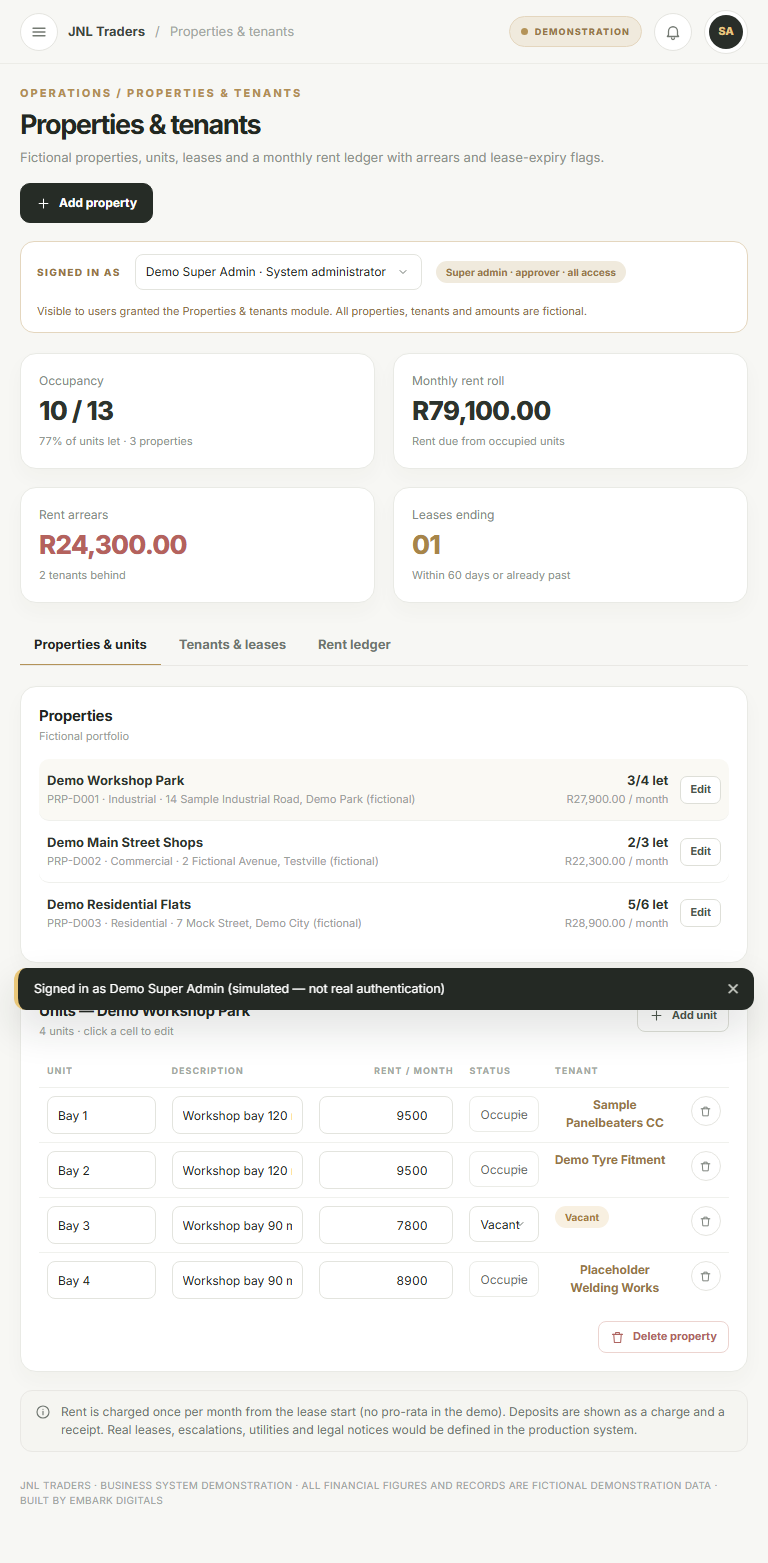
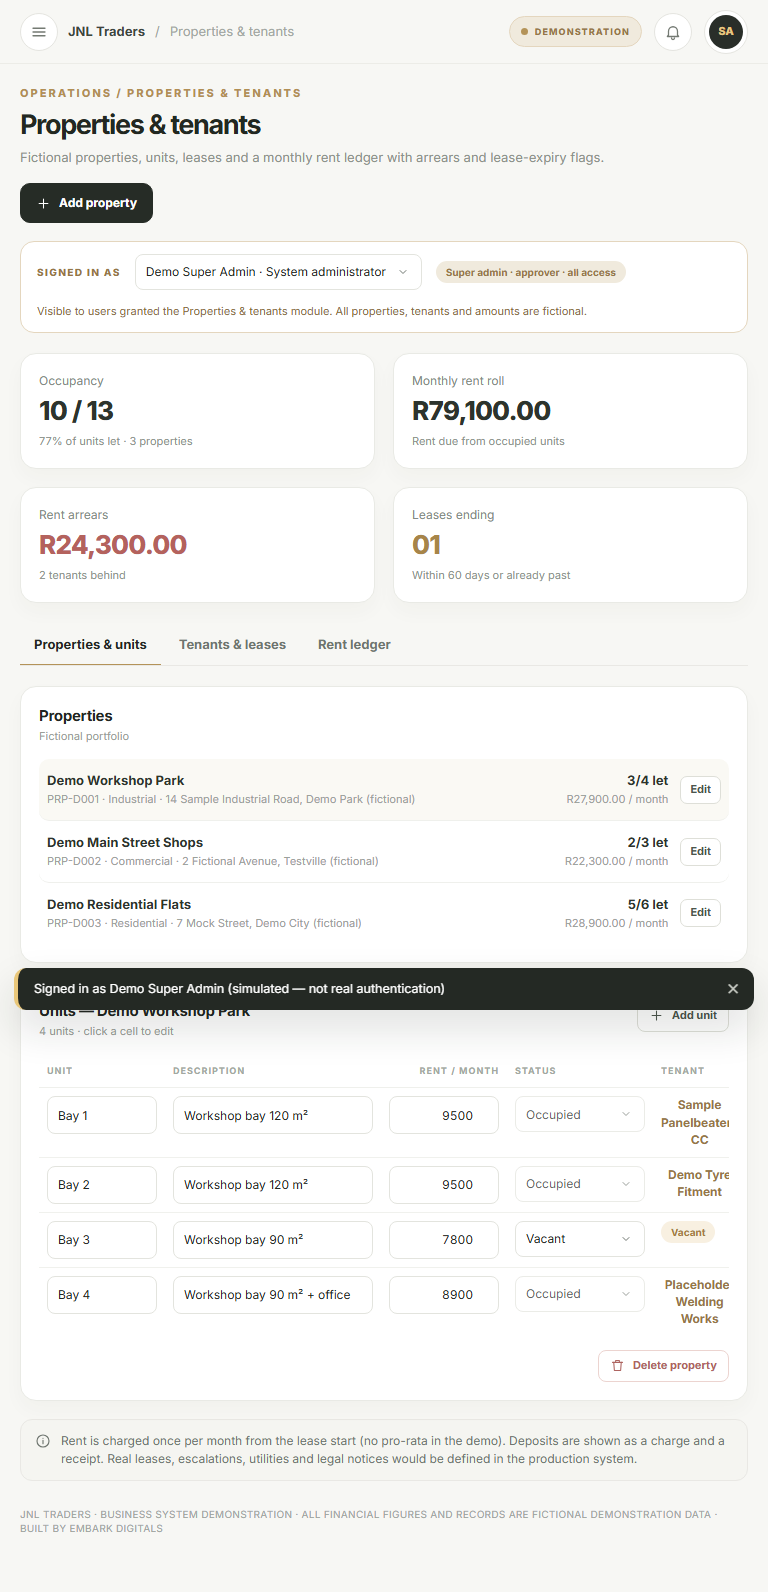
Fix tenants page overflow at 1024/768/390 (explicit grid column minimum)

diff --git a/src/modules/tenants/PropertiesTab.tsx b/src/modules/tenants/PropertiesTab.tsx
@@ -40,7 +40,7 @@ export default function PropertiesTab({ editing, setEditing, onOpenLedger }: { e
 
   return (
     <>
-      <div style={{ display: 'grid', gap: 18, marginBottom: 18 }}>
+      <div style={{ display: 'grid', gridTemplateColumns: 'minmax(0, 1fr)', gap: 18, marginBottom: 18 }}>
         <Panel title="Properties" meta="Fictional portfolio">
           <ul className="list" data-testid="property-list">
             {store.properties.map((p) => {
